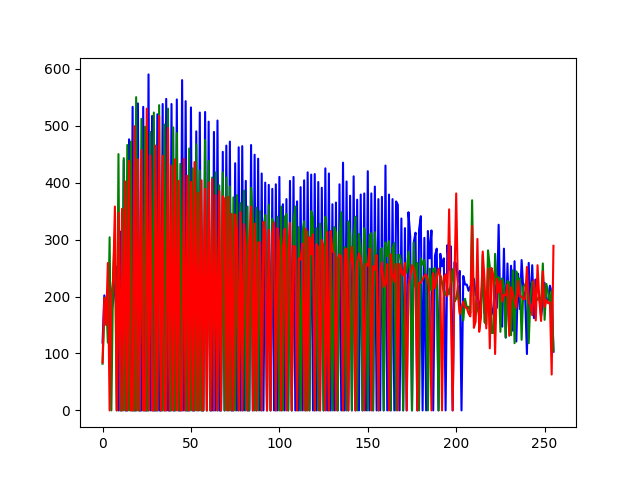
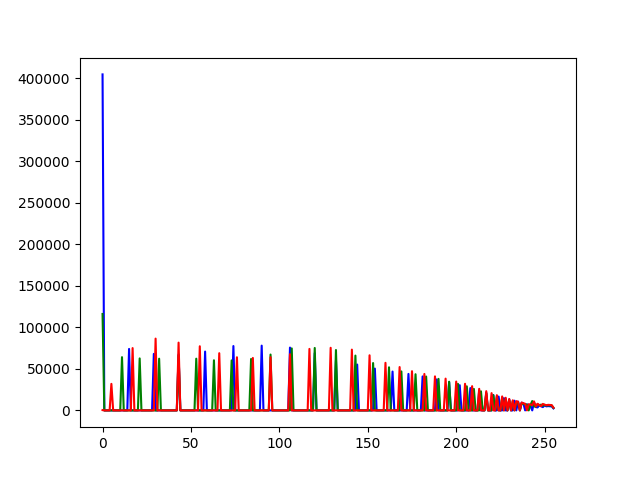
Fix tasks

diff --git a/lab1/main.py b/lab1/main.py
@@ -2,8 +2,40 @@ import cv2
 import matplotlib.pyplot as plt
 import numpy as np
 
-def to_grey(image):
-    return cv2.cvtColor(image, cv2.COLOR_BGR2GRAY)
+def task1():
+    image = cv2.imread('1.jpg');
+    cv2.imshow('image', image);
+    cv2.waitKey(0);
+    return image;
+
+def task2():
+    image = cv2.imread('1.jpg', cv2.IMREAD_GRAYSCALE);
+    cv2.imshow('image', image);
+    cv2.waitKey(0);
+    return image;
+
+def task3():
+    image = cv2.imread('1.jpg', cv2.IMREAD_GRAYSCALE);
+    thresh = 128;
+    image = cv2.threshold(image, thresh, 255, cv2.THRESH_BINARY)[1];
+    cv2.imshow('image', image);
+    cv2.waitKey(0);
+    return image;
+
+def task4(filename, image):
+    cv2.imwrite(filename, image);
+
+def task5():
+    image = cv2.imread('2.jpg');
+    show_hists(image, "hist_before.png");
+    R, G, B = cv2.split(image)
+    output1_R = cv2.equalizeHist(R)
+    output1_G = cv2.equalizeHist(G)
+    output1_B = cv2.equalizeHist(B)
+    image = cv2.merge((output1_R, output1_G, output1_B))
+    cv2.imshow("image", image);
+    cv2.waitKey(0);
+    show_hists(image, "hist_after.png");
 
 def compute_hists(image):
     hist_b = cv2.calcHist([image], channels=[0], mask=None, histSize=[256], ranges=[0, 256])
@@ -21,31 +53,5 @@ def show_hists(rgb_image, name="hist.png"):
     plot = cv2.imread(name)
     cv2.imshow(name, plot)
     cv2.waitKey(0)
-    
-image = cv2.imread("1.jpg")
 
-# задание 1 - вывести изображение 
-cv2.imshow("image", image);
-cv2.waitKey(0);
-
-# задание 2 - изображение в оттеках серого
-# image = to_grey(image);
-# cv2.imshow("image", image);
-# cv2.waitKey(0);
-
-# задание 3 - бинарное изображение
-# image[:, :, 0] = 0
-# image[:, :, 2] = 0
-# cv2.imshow("image", image);
-# cv2.waitKey(0);
-
-# задание 4 - гистограммы 
-# show_hists(image, "hist_before.png");
-# R, G, B = cv2.split(image)
-# output1_R = cv2.equalizeHist(R)
-# output1_G = cv2.equalizeHist(G)
-# output1_B = cv2.equalizeHist(B)
-# image = cv2.merge((output1_R, output1_G, output1_B))
-# cv2.imshow("image", image);
-# cv2.waitKey(0);
-# show_hists(image, "hist_after.png");
+task5();
